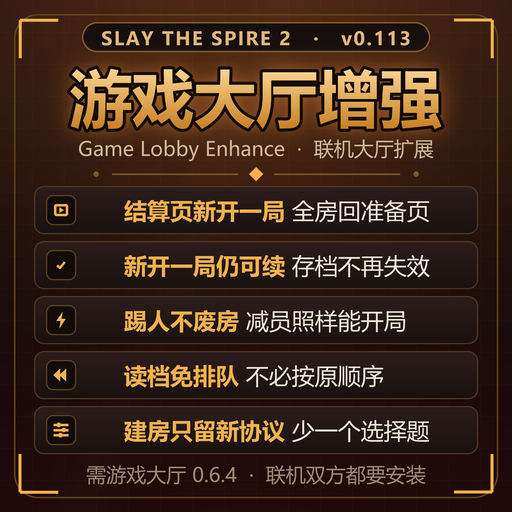
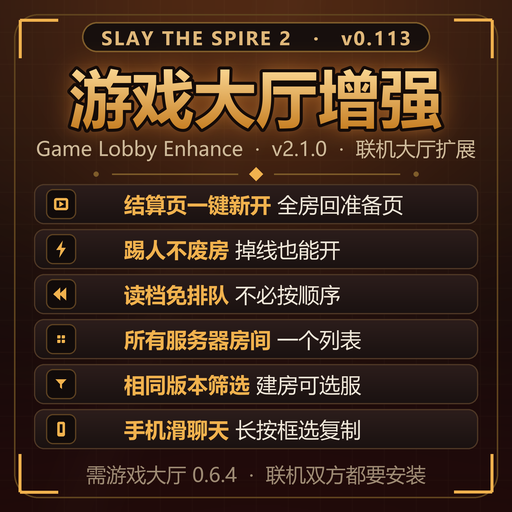
feat(cover): put the 2.1.0 highlights on the Workshop image
Six rows: three of the fixes players actually hit (one-click new run, kick/disconnect no longer kills the
room, load-order freedom) and three of the new capabilities (all servers in one list, same-version filter,
mobile swipe plus long-press selection). The old cover still advertised the pre-2.1.0 set.

THIRD_PARTY_NOTICES is corrected in the same pass: it named 0.6.3 and three files that 2.0.0 deleted.

Changed region(s): [[0.0625, 0.3438, 0.9375, 0.9062], [0.0625, 0.25, 0.9375, 0.3125]]

diff --git a/packaging/make-image.py b/packaging/make-image.py
@@ -39,7 +39,7 @@ DARK = (10, 6, 6)
 
 # --- layout (all values are 1x, multiplied by SCALE when drawn) -------------
 TITLE = "游戏大厅增强"
-SUBTITLE = "Game Lobby Enhance  ·  联机大厅扩展"
+SUBTITLE = "Game Lobby Enhance  ·  v2.1.0  ·  联机大厅扩展"
 EYEBROW = "SLAY THE SPIRE 2   ·   v0.113"
 FOOTER = "需游戏大厅 0.6.4  ·  联机双方都要安装"
 
@@ -48,17 +48,18 @@ TITLE_CY, TITLE_SIZE = 96, 62
 SUBTITLE_CY, SUBTITLE_SIZE = 148, 20
 DIVIDER_Y = 174
 CARD_X0, CARD_X1 = 34, 478
-CARD_TOP, CARD_HEIGHT, CARD_GAP = 186, 48, 7
+CARD_TOP, CARD_HEIGHT, CARD_GAP = 184, 40, 5
 CARD_TEXT_X = 90
-CARD_TEXT_SIZE = 23
+CARD_TEXT_SIZE = 21
 FOOTER_CY, FOOTER_SIZE = 474, 20
 
 FEATURES = [
-    ("play", "结算页新开一局", " 全房回准备页"),
-    ("check", "新开一局仍可续", " 存档不再失效"),
-    ("bolt", "踢人不废房", " 减员照样能开局"),
-    ("restart", "读档免排队", " 不必按原顺序"),
-    ("slider", "建房只留新协议", " 少一个选择题"),
+    ("play", "结算页一键新开", " 全房回准备页"),
+    ("bolt", "踢人不废房", " 掉线也能开"),
+    ("restart", "读档免排队", " 不必按顺序"),
+    ("grid", "所有服务器房间", " 一个列表"),
+    ("funnel", "相同版本筛选", " 建房可选服"),
+    ("phone", "手机滑聊天", " 长按框选复制"),
 ]
 
 FONT_DIR = Path("C:/Windows/Fonts")
@@ -223,7 +224,43 @@ def icon_slider(draw, cx, cy, s, colour, w) -> None:
                      fill=CHIP_BG, outline=colour, width=w)
 
 
+def icon_grid(draw, cx, cy, s, colour, w) -> None:
+    cell, gap = s * 0.36, s * 0.10
+    for dx in (-cell - gap, gap):
+        for dy in (-cell - gap, gap):
+            draw.rounded_rectangle(
+                (cx + dx, cy + dy, cx + dx + cell, cy + dy + cell),
+                radius=s * 0.07,
+                outline=colour,
+                width=w,
+            )
+
+
+def icon_funnel(draw, cx, cy, s, colour, w) -> None:
+    draw.polygon(
+        [
+            (cx - 0.66 * s, cy - 0.56 * s), (cx + 0.66 * s, cy - 0.56 * s),
+            (cx + 0.12 * s, cy + 0.02 * s), (cx + 0.12 * s, cy + 0.60 * s),
+            (cx - 0.12 * s, cy + 0.42 * s), (cx - 0.12 * s, cy + 0.02 * s),
+        ],
+        fill=colour,
+    )
+
+
+def icon_phone(draw, cx, cy, s, colour, w) -> None:
+    draw.rounded_rectangle(
+        (cx - 0.44 * s, cy - 0.88 * s, cx + 0.44 * s, cy + 0.88 * s),
+        radius=s * 0.22,
+        outline=colour,
+        width=w,
+    )
+    draw.line([(cx - 0.16 * s, cy + 0.58 * s), (cx + 0.16 * s, cy + 0.58 * s)], fill=colour, width=w)
+
+
 ICONS = {
+    "grid": icon_grid,
+    "funnel": icon_funnel,
+    "phone": icon_phone,
     "check": icon_check,
     "bolt": icon_bolt,
     "restart": icon_restart,
